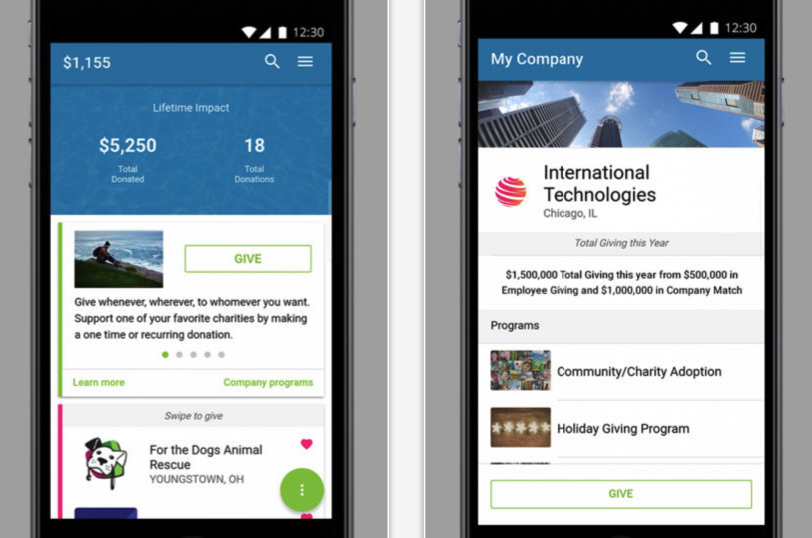
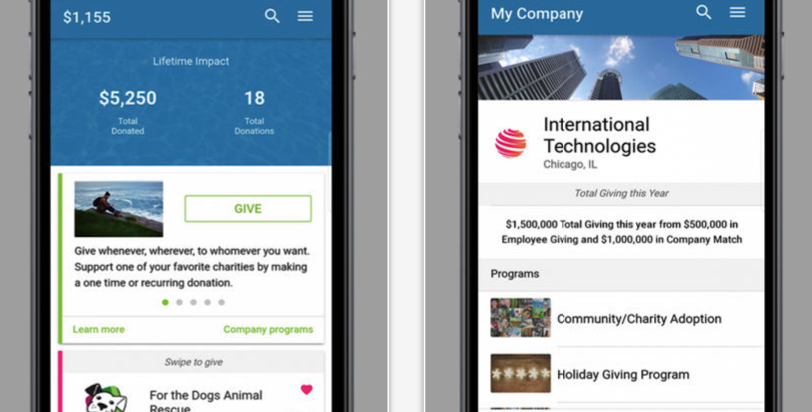
Header height and loading animations updated

diff --git a/src/pages/App.js b/src/pages/App.js
@@ -44,7 +44,7 @@ class App extends Component {
         }, {
           img: '/images/Binder_screenshot.png',
           label: 'Project Binder',
-          content: "A HackGT Project created with two fellow developers using Android Studio, the OpenCV library, and the Evernote API. Meant as a utility for students, this app allows one to input their class schedule for the week. At the end of each class, an notification appears allowing one to take a picture of that day's notes to upload to their Evernote notebooks. OpenCV automatically crops the scanned image to only feature the notebook page in the final image.",
+          content: "A HackGT Project created with two fellow developers using Android Studio, OpenCV, and the Evernote API. Meant for students, this app allows one to input their class schedule for the week. At the end of each class, a notification appears allowing one to take a picture of that day's notes to upload to Evernote. OpenCV automatically crops the scanned image to only feature the notebook page.",
           buttons: [{
             type: 'Devpost',
             link: 'https://devpost.com/software/project-binder'
@@ -115,9 +115,9 @@ class App extends Component {
   handleScroll() {
     let sections = this.state.sections
     let somethingChanged = false
-    let scrollOffset = window.innerHeight + window.pageYOffset
+    let scrollOffset = window.innerHeight + (window.pageYOffset || document.documentElement.scrollTop)
     for (const [index, section] of sections.entries()) {
-      let elementOffset = window.innerHeight / 2 + (index + 1) * SECTION_HEIGHT
+      let elementOffset = window.innerHeight / 3 + (index + 1) * SECTION_HEIGHT
       if (scrollOffset >= elementOffset && !section.visible) {
         section.visible = true
         somethingChanged = true
@@ -130,8 +130,51 @@ class App extends Component {
         }
       })
   }
+  enableScroll() {
+    function preventDefault(e) {
+      e = e || window.event;
+      if (e.preventDefault)
+        e.preventDefault();
+      e.returnValue = false;
+    }
+
+
+    if (window.removeEventListener)
+      window.removeEventListener('DOMMouseScroll', preventDefault, false);
+    window.onmousewheel = document.onmousewheel = null;
+    window.onwheel = null;
+    window.ontouchmove = null;
+    document.onkeydown = null;
+  }
+  disableScroll() {
+    var keys = { 37: 1, 38: 1, 39: 1, 40: 1 };
+    function preventDefault(e) {
+      e = e || window.event;
+      if (e.preventDefault)
+        e.preventDefault();
+      e.returnValue = false;
+    }
+
+    if (window.addEventListener) // older FF
+      window.addEventListener('DOMMouseScroll', preventDefault, false);
+    window.onwheel = preventDefault; // modern standard
+    window.onmousewheel = document.onmousewheel = preventDefault; // older browsers, IE
+    window.ontouchmove = preventDefault;
+    document.onkeydown = (e) => {
+      if (keys[e.keyCode]) {
+        preventDefault(e);
+        return false;
+      }
+    }
+  }
   componentDidMount() {
+    this.disableScroll()
+    var _this = this
     window.onscroll = () => this.handleScroll()
+    setTimeout(() => {
+      window.scrollTo(0, (window.pageYOffset || document.documentElement.scrollTop) + 1)
+      _this.enableScroll()
+    }, 2000)
   }
   render() {
     return (

diff --git a/src/styles/Section.css b/src/styles/Section.css
@@ -107,22 +107,27 @@
 }
 
 .Section-item h1 {
-  font-family: 'Lato', 'sans-serif' !important;
+  font-family: 'Lato', 'sans-serif'; font-weight:900;
+  padding: 0px;
+  margin-top: 0;
+  margin-bottom: 7px;
   font-size: 1.25em;
 }
 
 .Section-item .sublabel {
-  font-family: 'Merriweather', 'serif' !important;
+  font-family: 'Merriweather', 'serif'; font-weight:300; font-style:italic;
   font-size: 0.75em;
+  padding: 0px;
+  margin: 7px;
 }
 
 .Section-item .content {
-  font-family: 'Merriweather', 'serif' !important;
-  height: 120px;
+  font-family: 'Merriweather', 'serif'; font-weight:300; font-style:italic;
+  height: 140px;
   padding: 0 10px;
 }
 .Section-item .content.tall {
-  height: 160px;
+  height: 220px;
 }
 
 @font-face {

diff --git a/src/styles/App.css b/src/styles/App.css
@@ -15,8 +15,7 @@
   display: flex;
   flex-flow: row wrap;
   justify-content: center;
-  align-items: center;
-  height: 50vh;
+  height: 36vh;
   padding: 20px;
   overflow: hidden;
   color: white;
@@ -24,8 +23,8 @@
   background: url('/images/dark-leather-header.jpeg') no-repeat bottom center;
 }
 .App-header div {
-  width: 45vh;
-  height: 25vh;
+  width: 40vh;
+  height: 20vh;
   overflow: hidden;
 }
 
@@ -55,11 +54,11 @@
 
 .App-title h1 {
   font-size: 1.5em;
-  font-family: 'Lato';
+  font-family: 'Lato'; font-weight:900;
 }
 
 .App-title p {
-  font-family: 'Merriweather';
+  font-family: 'Merriweather'; font-weight:300; font-style:italic;
 }
 
 .App-footer {

diff --git a/src/pages/Section.js b/src/pages/Section.js
@@ -29,7 +29,7 @@ class Panel extends Component {
             <div className="Section-item Panel animated fadeInUp" style={this.getDelay(this.props.index)}>
                 <img src={this.props.info.img} alt="" />
                 <h1>{this.props.info.label}</h1>
-                <p className="sublabel">{this.props.info.sublabel}</p>
+                {this.props.info.sublabel && <p className="sublabel">{this.props.info.sublabel}</p>}
                 <Textfit mode="multi" className={this.props.info.tall ? 'content tall' : 'content'}>
                     {this.props.info.content}
                 </Textfit>
